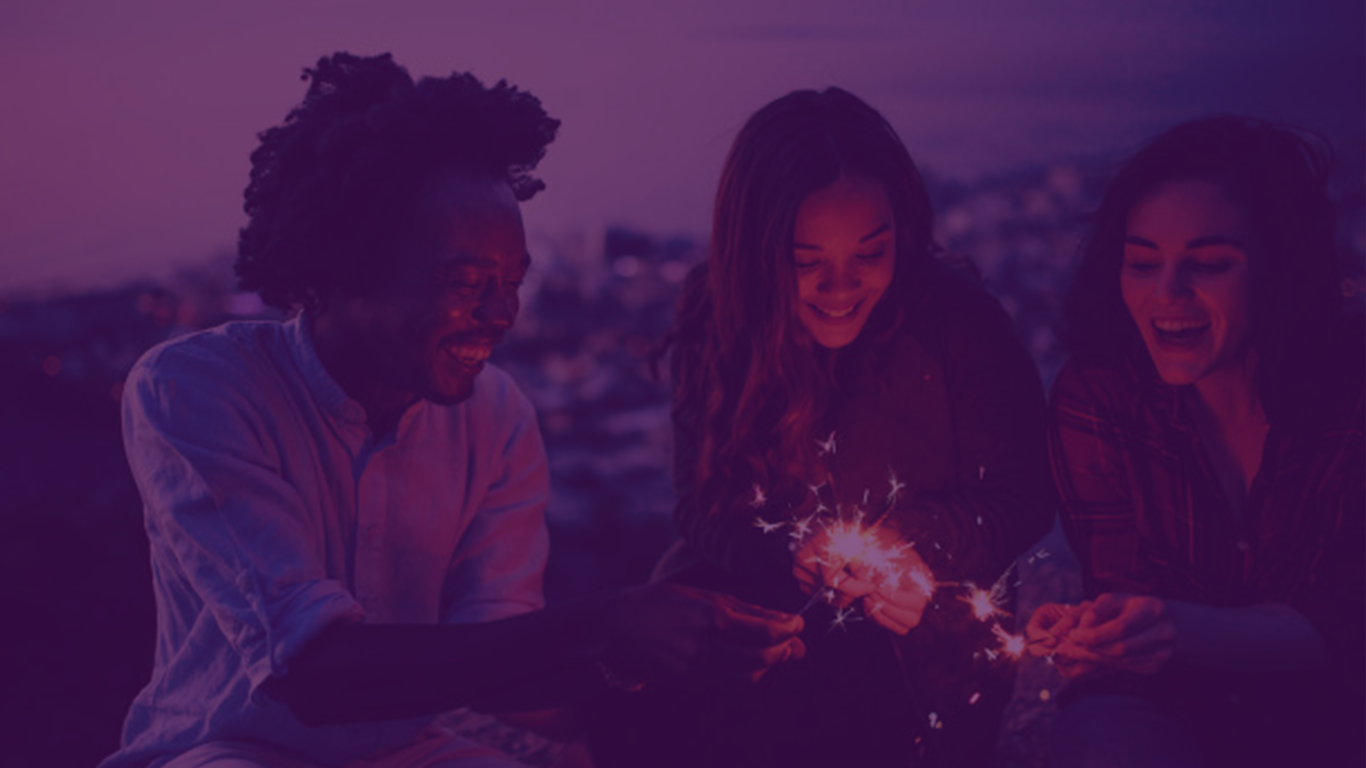
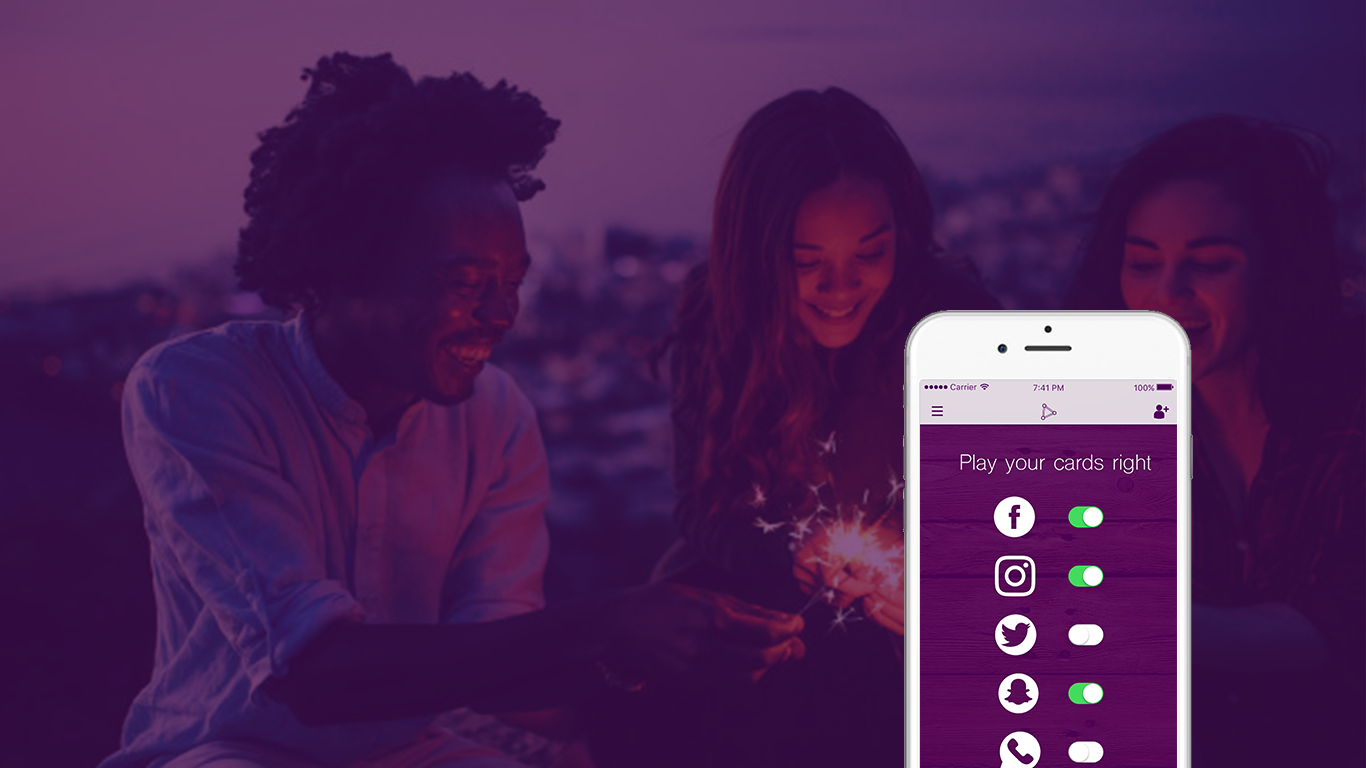
=working first page of landing and navbar

Changed region(s): [[0.6457, 0.4062, 0.8917, 1.0]]

diff --git a/index.html b/index.html
@@ -49,15 +49,15 @@
                     <span class="sr-only">Toggle navigation</span> Menu <i class="fa fa-bars"></i>
                 </button>
                 <a class="navbar-brand page-scroll" href="#page-top">
-                    <img src="assets/Logo.gif" height="50px">
+                    <img src="assets/Title.png" height="50px">
                 </a>
             </div>
 
             <!-- Collect the nav links, forms, and other content for toggling -->
             <div class="collapse navbar-collapse" id="bs-example-navbar-collapse-1">
-                <ul class="nav navbar-nav navbar-right">
+                <ul class="nav navbar-nav navbar-right" id="menu_options">
                     <li>
-                        <a class="page-scroll" href="#download">About Us</a>
+                        <a class="page-scroll" href="#how_it_works">How It Works</a>
                     </li>
                     <li>
                         <a class="page-scroll" href="#features">Sign Up</a>
@@ -78,21 +78,12 @@
                 <div class="col-sm-7">
                     <div class="header-content" style="margin-left: 10%">
                         <div class="header-content-inner">
-                            <h1 style="margin-bottom: 0px">Meet. Connect. Share.</h1>
+                            <h1 style="margin-bottom: 0px; margin-top: 40px">Meet. Connect. Share.</h1>
                             <h3 style="margin-top: 0px">Your social card is just a tap away.</h3>
-
-                            <!-- row of company logos --> 
-                            <div class="row" id="icons">
-                                <img src="assets/FBIcon.png">
-                                <img src="assets/InstaIcon.png">
-                                <img src="assets/SnapIcon.png">
-                                <img src="assets/TwitterIcon.png">
-                                <img src="assets/WhatsAppIcon.png">
-                            </div>
 
                             <div class="row" style="padding: 20px">
                                 <a href="#download" id="startbtn" class="btn btn-outline btn-xl page-scroll">
-                                Start Connecting</a>
+                                Get Started</a>
                             </div>
                         </div>
                     </div>
@@ -116,7 +107,7 @@
         </div>
     </header>
 
-    <section id="download" class="download bg-primary text-center">
+    <section id="how_it_works" class="download text-center">
         <div class="container">
             <div class="row">
                 <div class="col-md-8 col-md-offset-2">
@@ -225,16 +216,10 @@
 
     <footer>
         <div class="container">
-            <p>&copy; 2016 Start Bootstrap. All Rights Reserved.</p>
+            <p>&copy; 2017 Connex. All Rights Reserved.</p>
             <ul class="list-inline">
                 <li>
-                    <a href="#">Privacy</a>
-                </li>
-                <li>
-                    <a href="#">Terms</a>
-                </li>
-                <li>
-                    <a href="#">FAQ</a>
+                    <a href="#page-top">Return to top</a>
                 </li>
             </ul>
         </div>

diff --git a/css/index.css b/css/index.css
@@ -1,5 +1,5 @@
-.navbar-fixed-top {
-	/*background-color: #51005A; */
+header {
+	background-image: url("../assets/MainPic.png");
 }
 
 #startbtn {
@@ -8,22 +8,47 @@
   	color: #51005A;
   	font-weight: bold;
   	border-color: white;
+  	transition: 0.3s ease;
 }
 
 #startbtn:hover {
 	opacity: 1.0;
 	border-color: #51005A;
+	transform: scale(1.1, 1.1);
 }
 
-#icons {
-	padding: 20px;
+#how_it_works {
+	background: url("../assets/bg-pattern.png"), #e8e8e8;
 }
 
-#icons > img {
-	height: 40px;
-	padding-right: 30px;
+/* the navbar when it has a background after scrolling for a bit */ 
+.navbar-default.affix{
+	background-color: #e8e8e8;
+	opacity:0.9; 
+	color:#51005A;
+	min-height:70px;
 }
 
-header {
-	background-image: url("../assets/MainPic.png");
+.opaque{
+	opacity:1.0 !important; 
+}
+
+/* change the logo to purple when navbar has white background */ 
+.navbar-default.affix img{
+	content: url("../assets/TitlePurple.png");
+}
+
+/* pad the menu options so they are more centered in navbar */ 
+#menu_options > li {
+	padding-top: 7px;
+}
+
+/* change the logo to purple when navbar has white background */ 
+.navbar-default.affix #menu_options > li > a {
+	color: #51005A;
+}
+
+.navbar-default.affix #menu_options > li > a:hover,
+.navbar-default .nav>li.active>a,.navbar-default .nav>li.active>a:focus {
+	color: #e820e0 !important;
 }

diff --git a/js/new-age.min.js b/js/new-age.min.js
@@ -3,4 +3,26 @@
  * Copyright 2013-2016 Start Bootstrap
  * Licensed under MIT (https://github.com/BlackrockDigital/startbootstrap/blob/gh-pages/LICENSE)
  */
-// !function(t){"use strict";t("a.page-scroll").bind("click",function(a){var o=t(this);t("html, body").stop().animate({scrollTop:t(o.attr("href")).offset().top-50},1250,"easeInOutExpo"),a.preventDefault()}),t("body").scrollspy({target:".navbar-fixed-top",offset:100}),t(".navbar-collapse ul li a").click(function(){t(".navbar-toggle:visible").click()}),t("#mainNav").affix({offset:{top:50}})}(jQuery);
+!function(t){
+	"use strict";
+	t("a.page-scroll").bind("click",function(a){
+		var o=t(this);
+		t("html, body").stop().animate({
+			scrollTop:t(o.attr("href")).offset().top-50
+		},1250,"easeInOutExpo"),
+		a.preventDefault()}),
+	t("body").scrollspy({target:".navbar-fixed-top",offset:100}),
+	t(".navbar-collapse ul li a").click(function(){
+		t(".navbar-toggle:visible").click()}),
+	t("#mainNav").affix({offset:{top:50}})
+}(jQuery);
+
+$(window).scroll(function() {    
+    var scroll = $(window).scrollTop();
+    if (scroll >= 400) {
+        console.log('here');
+        $("#mainNav").addClass("opaque");
+    } else {
+        $("#mainNav").removeClass("opaque");
+    }
+});

diff --git a/js/new-age.js b/js/new-age.js
@@ -26,6 +26,7 @@
         offset: {
             top: 50
         }
-    })
-
+    });
 })(jQuery); // End of use strict
+
+
